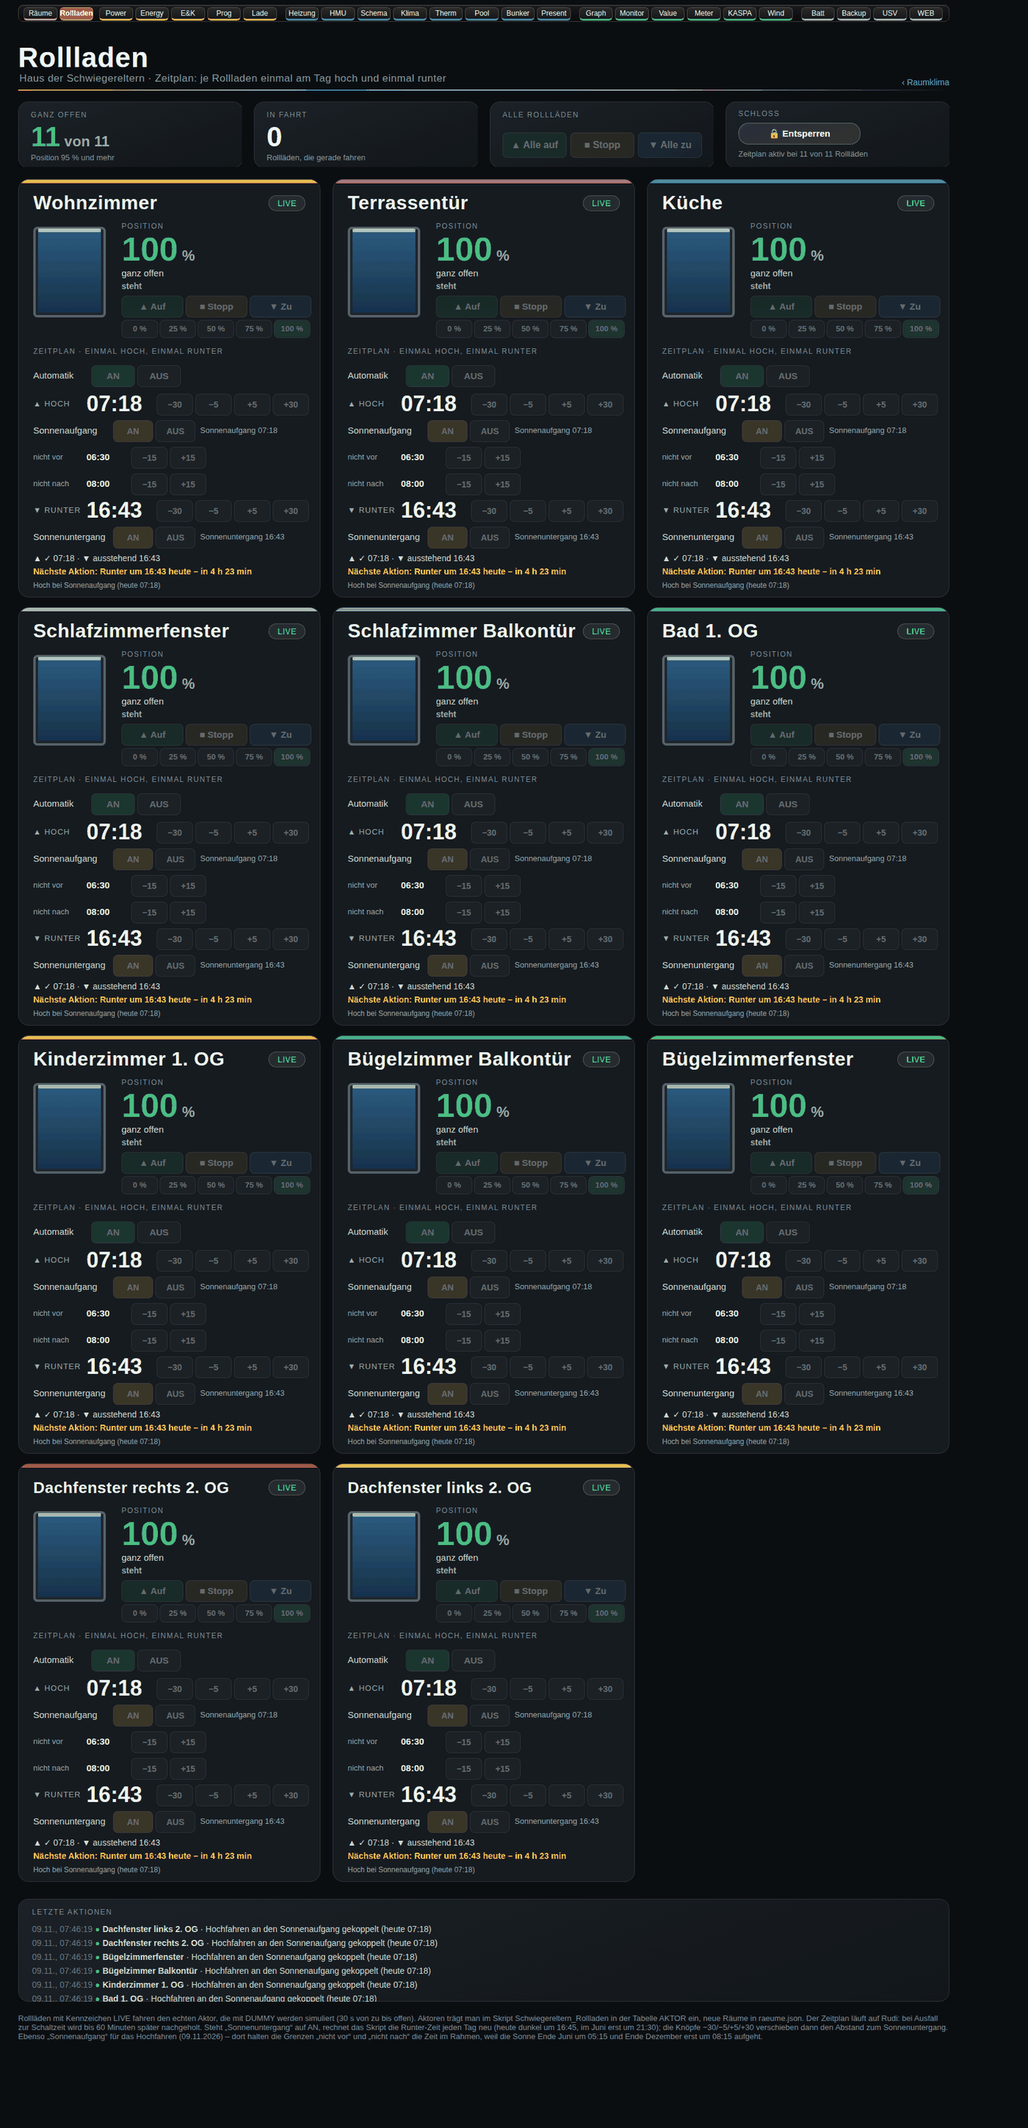
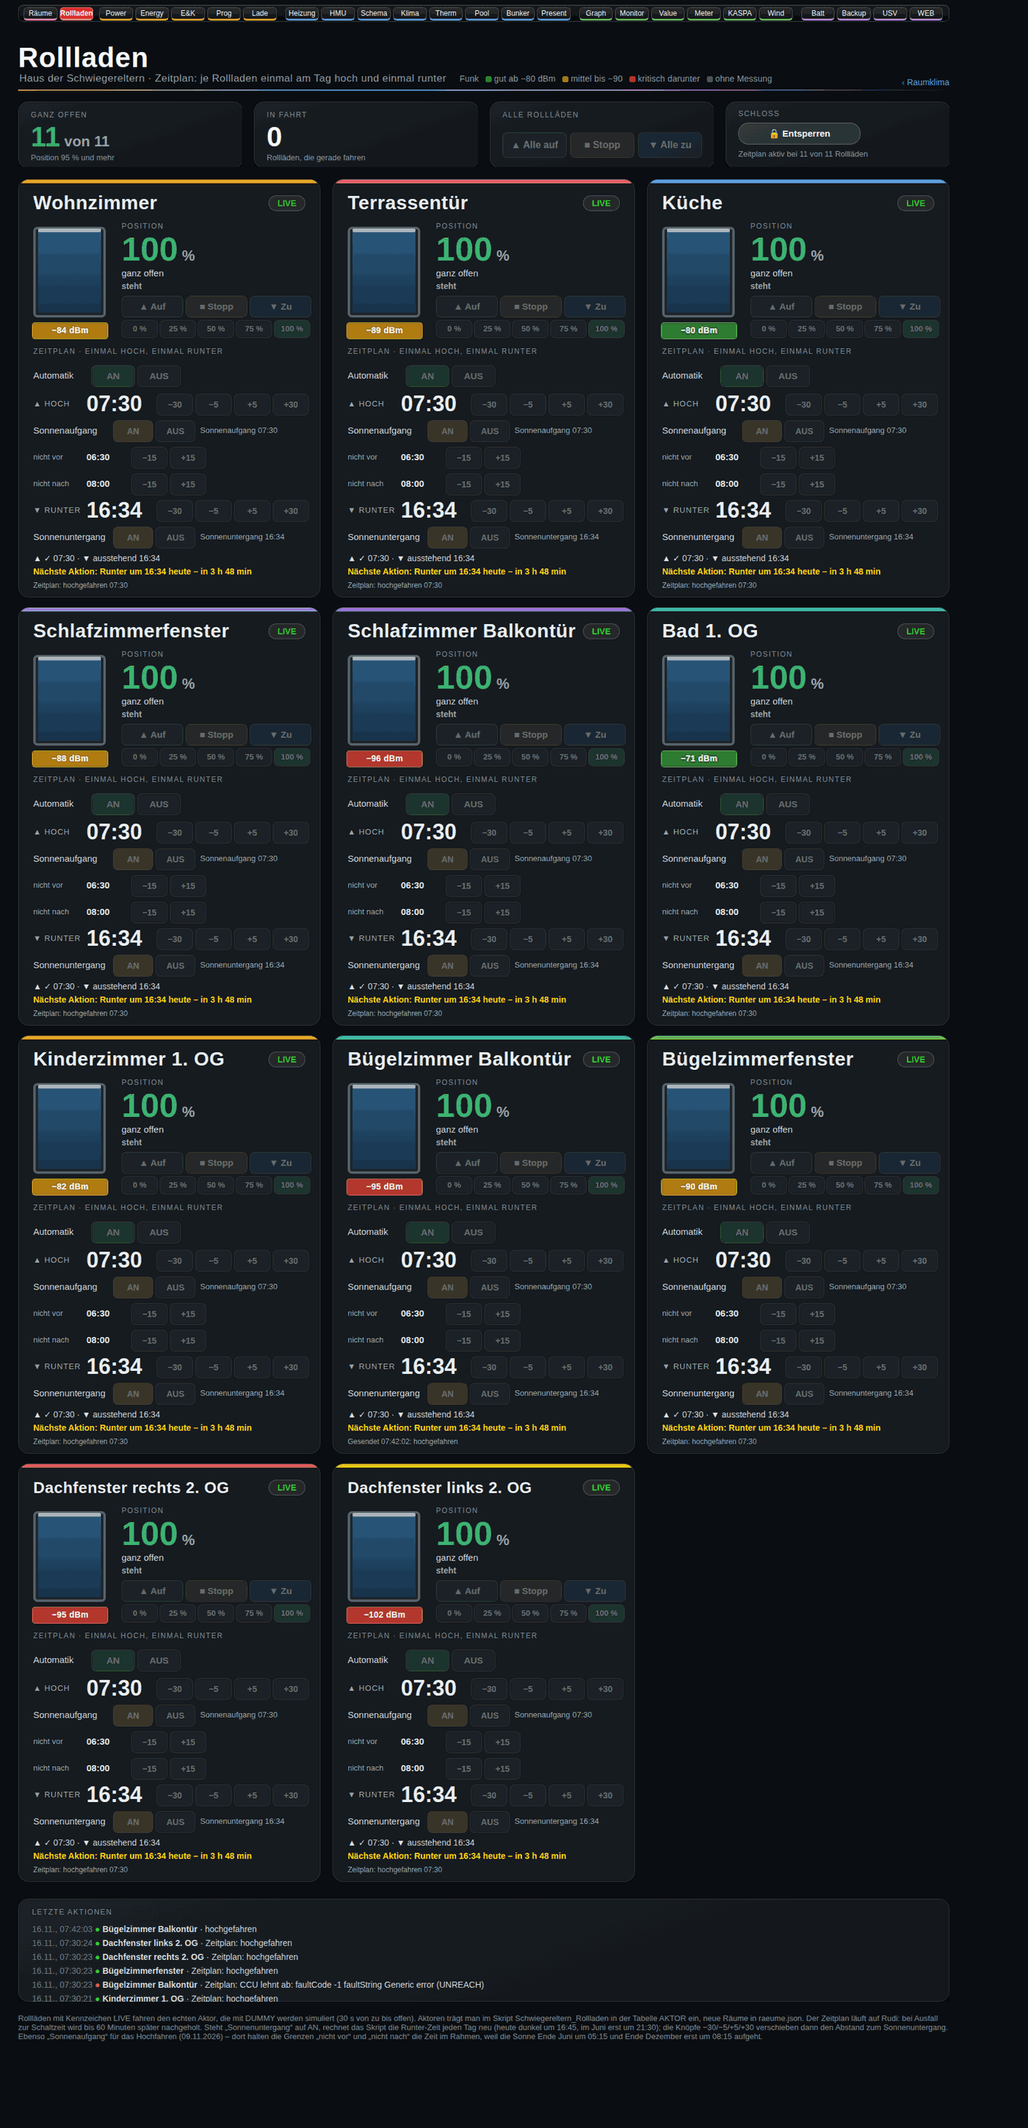
Funkguete je Rollladenaktor: man sieht den wackeligen, bevor er ausfaellt
Jede Karte zeigt unten links eine Ampel mit dem Funkpegel ihres Aktors:
gruen ab -80 dBm, gelb bis -90, darunter rot, grau ohne Messung. Der
Hinweistext nennt beide Richtungen getrennt und die Uhrzeit der letzten
gelungenen Messung, die Legende steht im Kopf der View.

Anlass war der Ausfall aus dem Commit 695f796: Ein Aktor lehnte eine
Fahrt wegen schwachem Funk ab. Dass gerade dieser Rollladen am Rand der
Reichweite sitzt, liess sich vorher nur von Hand nachmessen.

funkLesen() holt die Werte alle 15 Minuten per getParamset aus dem
WARTUNGSKANAL :0 -- der Fahrkanal :4 kennt kein RSSI_DEVICE, es braucht
also eine eigene Abfrage. Angezeigt wird der SCHLECHTERE von
RSSI_DEVICE und RSSI_PEER: eine Funkstrecke ist nur so gut wie ihre
schwaechere Richtung, und ein Geraet, das die Zentrale gut hoert, aber
selbst nicht durchkommt, faellt genauso aus.

Zwei Fallen stecken im Code:

- HomeMatic IP liefert 0 oder 128, wenn kein Pegel vorliegt. Ungeprueft
  uebernommen waere das die beste Note der Anlage; gueltig ist nur
  -120 bis -20 dBm, sonst gilt der Wert als fehlend.
- Der Messwert kommt als "-90" mit ASCII-Bindestrich, die von Hand
  gesetzte Legende trug ein typografisches Minus. Nebeneinander sah das
  aus wie zwei verschiedene Groessen; das Feld gleicht es beim Anzeigen
  an.

Antwortet ein Geraet nicht, bleibt der alte Wert stehen -- Funk_Stand
verraet das Alter. Erst wenn kein einziges Geraet antwortet, gibt es
[…]

diff --git a/generatoren/rollladen/vorlage.js b/generatoren/rollladen/vorlage.js
@@ -40,6 +40,12 @@ const AKTOR = {
 };
 const FAHRZEIT_S = 30, SCHRITT = 100 / FAHRZEIT_S, NACHHOL_MIN = 60, ENTSPERR_MS = 60000, MAXPROT = 40;
 const WIEDERHOL_MIN = 5;     // 16.11.2026: Minuten zwischen zwei Versuchen, wenn die CCU den Befehl ablehnt (UNREACH)
+// 16.11.2026: Funkguete je Aktor. RSSI steht im WARTUNGSkanal (:0), nicht im Fahrkanal (:4), darum eine eigene
+// Abfrage. Zwei Richtungen: RSSI_DEVICE = wie gut das Geraet die Zentrale hoert, RSSI_PEER = umgekehrt.
+// Angezeigt wird der SCHLECHTERE der beiden -- eine Funkstrecke ist nur so gut wie ihre schwaechere Richtung.
+const FUNK_TAKT_MS = 900000, FUNK_START_MS = 30000;     // alle 15 Minuten, erstmals 30 s nach dem Start
+const FUNK_GUT = -80, FUNK_MITTEL = -90;                // >= -80 gruen, -80 bis -90 gelb, darunter rot
+const FUNK_MIN = -120, FUNK_MAX = -20;                  // alles ausserhalb ist keine Messung (HmIP liefert dann 0)
 const letzteAenderung = {}, letzteAbfrage = {};
 let entsperrTimer = null, protokoll = [];
 const simuliert = r => !AKTOR[r.id];
@@ -80,7 +86,11 @@ async function init() {
             ['Letzte_Runter', 'string', 'text', 'Datum des letzten Runterfahrens (Zeitplan)', '', false],
             ['Naechste', 'string', 'text', 'Naechste geplante Aktion', 'Automatik aus', false],
             ['Heute', 'string', 'text', 'Was heute vom Zeitplan erledigt ist', '', false],
-            ['Meldung', 'string', 'text', 'Ergebnis des letzten Befehls', 'Bereit', false]
+            ['Meldung', 'string', 'text', 'Ergebnis des letzten Befehls', 'Bereit', false],
+            ['Funk_dBm', 'number', 'value', 'Funkguete: der schlechtere der beiden Werte in dBm (0 = keine Messung)', 0, false],
+            ['Funk_Geraet', 'number', 'value', 'Funk: wie gut das Geraet die Zentrale hoert (RSSI_DEVICE, dBm)', 0, false],
+            ['Funk_Zentrale', 'number', 'value', 'Funk: wie gut die Zentrale das Geraet hoert (RSSI_PEER, dBm)', 0, false],
+            ['Funk_Stand', 'string', 'text', 'Funk: Uhrzeit der letzten gelungenen Messung', '', false]
         ]) {
             const full = P + r.id + '.' + id;
             if (!existsState(full)) await createStateAsync(full, def, { name: r.name + ': ' + name, type, role, read: true, write: wr });
@@ -146,6 +156,36 @@ async function aktorLesen(r) {
     const txt = await rpc('getParamset', [S(AKTOR[r.id].adr), S('VALUES')]);
     const m = /<name>LEVEL<\/name>\s*<value>\s*<double>([^<]+)<\/double>/.exec(txt);
     return m ? Math.round(Number(m[1]) * 100) : null;
+}
+
+// ---------- Funkguete (16.11.2026) ----------
+function rssiWert(txt, name) {
+    const m = new RegExp('<name>' + name + '<\\/name>\\s*<value>\\s*<i4>(-?\\d+)<\\/i4>').exec(txt);
+    if (!m) return null;
+    const v = Number(m[1]);
+    return (v >= FUNK_MIN && v <= FUNK_MAX) ? v : null;      // 0 oder 128 heisst "unbekannt", nicht "sehr gut"
+}
+async function funkLesen() {
+    let gelesen = 0, stumm = 0;
+    for (const r of ROOMS) {
+        if (!AKTOR[r.id]) continue;                           // Dummy-Raum: kein Geraet, keine Funkguete
+        try {
+            const adr0 = AKTOR[r.id].adr.split(':')[0] + ':0';    // Wartungskanal
+            const txt = await rpc('getParamset', [S(adr0), S('VALUES')]);
+            const dev = rssiWert(txt, 'RSSI_DEVICE'), peer = rssiWert(txt, 'RSSI_PEER');
+            const beide = [dev, peer].filter(v => v !== null);
+            if (!beide.length) { stumm++; continue; }             // antwortet, meldet aber keinen Pegel
+            await setStateAsync(P + r.id + '.Funk_Geraet', dev === null ? 0 : dev, true);
+            await setStateAsync(P + r.id + '.Funk_Zentrale', peer === null ? 0 : peer, true);
+            await setStateAsync(P + r.id + '.Funk_dBm', Math.min(...beide), true);
+            await setStateAsync(P + r.id + '.Funk_Stand', new Date().toLocaleTimeString('de-DE', { hour: '2-digit', minute: '2-digit' }), true);
+            gelesen++;
+        } catch (e) {
+            stumm++;                                          // nicht erreichbar: alten Wert stehen lassen, Stand verraet das Alter
+        }
+        await new Promise(res => setTimeout(res, 150));        // die CCU nicht fluten
+    }
+    if (!gelesen) log('Rollladen: Funkguete nicht lesbar (' + stumm + ' Geraete stumm)', 'warn');
 }
 
 
@@ -458,6 +498,8 @@ async function takt() {      // jede Sekunde
     setInterval(takt, 1000);
     setInterval(pruefeZeitplan, 20000);
 setInterval(notlaufPflegen, NOTLAUF_TAKT_MS);
+setTimeout(funkLesen, FUNK_START_MS);
+setInterval(funkLesen, FUNK_TAKT_MS);
 notlaufPflegen();
     log('Schwiegereltern_Rollladen gestartet (' + ROOMS.length + ' Rollladen, ' + ROOMS.filter(simuliert).length + ' simuliert, Zeitplan: einmal hoch, einmal runter)', 'info');
 })();

diff --git a/skripte/rollladen_zeitplan.js b/skripte/rollladen_zeitplan.js
@@ -52,6 +52,12 @@ const AKTOR = {
 };
 const FAHRZEIT_S = 30, SCHRITT = 100 / FAHRZEIT_S, NACHHOL_MIN = 60, ENTSPERR_MS = 60000, MAXPROT = 40;
 const WIEDERHOL_MIN = 5;     // 16.11.2026: Minuten zwischen zwei Versuchen, wenn die CCU den Befehl ablehnt (UNREACH)
+// 16.11.2026: Funkguete je Aktor. RSSI steht im WARTUNGSkanal (:0), nicht im Fahrkanal (:4), darum eine eigene
+// Abfrage. Zwei Richtungen: RSSI_DEVICE = wie gut das Geraet die Zentrale hoert, RSSI_PEER = umgekehrt.
+// Angezeigt wird der SCHLECHTERE der beiden -- eine Funkstrecke ist nur so gut wie ihre schwaechere Richtung.
+const FUNK_TAKT_MS = 900000, FUNK_START_MS = 30000;     // alle 15 Minuten, erstmals 30 s nach dem Start
+const FUNK_GUT = -80, FUNK_MITTEL = -90;                // >= -80 gruen, -80 bis -90 gelb, darunter rot
+const FUNK_MIN = -120, FUNK_MAX = -20;                  // alles ausserhalb ist keine Messung (HmIP liefert dann 0)
 const letzteAenderung = {}, letzteAbfrage = {};
 let entsperrTimer = null, protokoll = [];
 const simuliert = r => !AKTOR[r.id];
@@ -92,7 +98,11 @@ async function init() {
             ['Letzte_Runter', 'string', 'text', 'Datum des letzten Runterfahrens (Zeitplan)', '', false],
             ['Naechste', 'string', 'text', 'Naechste geplante Aktion', 'Automatik aus', false],
             ['Heute', 'string', 'text', 'Was heute vom Zeitplan erledigt ist', '', false],
-            ['Meldung', 'string', 'text', 'Ergebnis des letzten Befehls', 'Bereit', false]
+            ['Meldung', 'string', 'text', 'Ergebnis des letzten Befehls', 'Bereit', false],
+            ['Funk_dBm', 'number', 'value', 'Funkguete: der schlechtere der beiden Werte in dBm (0 = keine Messung)', 0, false],
+            ['Funk_Geraet', 'number', 'value', 'Funk: wie gut das Geraet die Zentrale hoert (RSSI_DEVICE, dBm)', 0, false],
+            ['Funk_Zentrale', 'number', 'value', 'Funk: wie gut die Zentrale das Geraet hoert (RSSI_PEER, dBm)', 0, false],
+            ['Funk_Stand', 'string', 'text', 'Funk: Uhrzeit der letzten gelungenen Messung', '', false]
         ]) {
             const full = P + r.id + '.' + id;
             if (!existsState(full)) await createStateAsync(full, def, { name: r.name + ': ' + name, type, role, read: true, write: wr });
@@ -158,6 +168,36 @@ async function aktorLesen(r) {
     const txt = await rpc('getParamset', [S(AKTOR[r.id].adr), S('VALUES')]);
     const m = /<name>LEVEL<\/name>\s*<value>\s*<double>([^<]+)<\/double>/.exec(txt);
     return m ? Math.round(Number(m[1]) * 100) : null;
+}
+
+// ---------- Funkguete (16.11.2026) ----------
+function rssiWert(txt, name) {
+    const m = new RegExp('<name>' + name + '<\\/name>\\s*<value>\\s*<i4>(-?\\d+)<\\/i4>').exec(txt);
+    if (!m) return null;
+    const v = Number(m[1]);
+    return (v >= FUNK_MIN && v <= FUNK_MAX) ? v : null;      // 0 oder 128 heisst "unbekannt", nicht "sehr gut"
+}
+async function funkLesen() {
+    let gelesen = 0, stumm = 0;
+    for (const r of ROOMS) {
+        if (!AKTOR[r.id]) continue;                           // Dummy-Raum: kein Geraet, keine Funkguete
+        try {
+            const adr0 = AKTOR[r.id].adr.split(':')[0] + ':0';    // Wartungskanal
+            const txt = await rpc('getParamset', [S(adr0), S('VALUES')]);
+            const dev = rssiWert(txt, 'RSSI_DEVICE'), peer = rssiWert(txt, 'RSSI_PEER');
+            const beide = [dev, peer].filter(v => v !== null);
+            if (!beide.length) { stumm++; continue; }             // antwortet, meldet aber keinen Pegel
+            await setStateAsync(P + r.id + '.Funk_Geraet', dev === null ? 0 : dev, true);
+            await setStateAsync(P + r.id + '.Funk_Zentrale', peer === null ? 0 : peer, true);
+            await setStateAsync(P + r.id + '.Funk_dBm', Math.min(...beide), true);
+            await setStateAsync(P + r.id + '.Funk_Stand', new Date().toLocaleTimeString('de-DE', { hour: '2-digit', minute: '2-digit' }), true);
+            gelesen++;
+        } catch (e) {
+            stumm++;                                          // nicht erreichbar: alten Wert stehen lassen, Stand verraet das Alter
+        }
+        await new Promise(res => setTimeout(res, 150));        // die CCU nicht fluten
+    }
+    if (!gelesen) log('Rollladen: Funkguete nicht lesbar (' + stumm + ' Geraete stumm)', 'warn');
 }
 
 
@@ -470,6 +510,8 @@ async function takt() {      // jede Sekunde
     setInterval(takt, 1000);
     setInterval(pruefeZeitplan, 20000);
 setInterval(notlaufPflegen, NOTLAUF_TAKT_MS);
+setTimeout(funkLesen, FUNK_START_MS);
+setInterval(funkLesen, FUNK_TAKT_MS);
 notlaufPflegen();
     log('Schwiegereltern_Rollladen gestartet (' + ROOMS.length + ' Rollladen, ' + ROOMS.filter(simuliert).length + ' simuliert, Zeitplan: einmal hoch, einmal runter)', 'info');
 })();

diff --git a/generatoren/rollladen/build_view.py b/generatoren/rollladen/build_view.py
@@ -52,6 +52,19 @@ def teil_bedienung(r):
     for i, pz in enumerate((0, 25, 50, 75, 100)):
         bg = B(V("z", zl), "z==%d&&'rgba(76,195,138,0.38)'||'rgba(255,255,255,0.08)'" % pz)
         o.append(btn(170 + i * 63, 232, 58, "%d %%" % pz, bf, "z%d" % pz, bg, 13, 28))
+    # Funkguete unten links, unter der Rollladen-Zeichnung (16.11.2026). Der Platz dort ist frei:
+    # die SVG endet bei y=232, die Knopfreihe beginnt erst bei x=170. Farbe nach Ampel, Werte aus
+    # dem Skript Schwiegereltern_Rollladen (alle 15 Minuten per XML-RPC aus dem Wartungskanal).
+    fd, fg, fz, fst = pid + "Funk_dBm", pid + "Funk_Geraet", pid + "Funk_Zentrale", pid + "Funk_Stand"
+    fbg = B(V("d", fd), "d?(d>=-80?'#2e7d32':(d>=-90?'#b07d12':'#b3382e')):'#4a545c'")
+    ftx = B(V("d", fd), "d?String(d).replace('-','\u2212')+' dBm':'kein Funkwert'")
+    tip = ("Funkg\u00fcte " + B(V("d", fd), "d&&d+' dBm'||'ohne Messung'")
+           + " \u2013 Ger\u00e4t h\u00f6rt Zentrale " + B(V("g", fg), "g&&g+' dBm'||'?'")
+           + ", Zentrale h\u00f6rt Ger\u00e4t " + B(V("z", fz), "z&&z+' dBm'||'?'")
+           + " \u2013 gemessen {" + fst + "}")
+    o.append('<div title="%s" style="position:absolute;left:22px;top:236px;width:124px;height:26px;border-radius:5px;'
+             'background:%s;border:1px solid rgba(255,255,255,0.18);font-size:14px;font-weight:700;line-height:24px;'
+             'text-align:center;color:#ffffff;letter-spacing:0.3px;">%s</div>' % (tip, fbg, ftx))
     return root("".join(o), 272, "18px 18px 0 0", "border:1px solid #2b333b;border-bottom:none;")
 
 def teil_zeitplan(r):
@@ -122,7 +135,11 @@ def header():
             '<div style="position:absolute;left:0;top:10px;font-size:46px;font-weight:700;letter-spacing:1px;">Rollladen</div>'
             '<div style="position:absolute;left:2px;top:62px;font-size:17px;color:#8a96a0;letter-spacing:0.5px;">Haus der Schwiegereltern · Zeitplan: je Rollladen einmal am Tag hoch und einmal runter</div>'
             '<a href="/vis-2/index.html?Schwiegereltern#Raeume" style="position:absolute;right:0;top:70px;font-size:14px;color:#4c9be8;text-decoration:none;">‹ Raumklima</a>'
-            '<div style="position:absolute;left:0;top:90px;width:1540px;height:2px;background:linear-gradient(90deg,#f2a93b,#4c9be8,#b07be0,rgba(176,123,224,0));"></div></div>' % (FONT,))
+            '<div style="position:absolute;left:0;top:90px;width:1540px;height:2px;background:linear-gradient(90deg,#f2a93b,#4c9be8,#b07be0,rgba(176,123,224,0));"></div>'
+            # Legende der Funkampel (16.11.2026). Sie steht im freien Streifen rechts der Unterzeile
+            # (links davon endet der Text bei ~720 px, rechts beginnt der Raumklima-Verweis erst oben).
+            '<div style="position:absolute;left:730px;top:64px;font-size:14px;color:#8a96a0;letter-spacing:0.2px;white-space:nowrap;">Funk<span style="display:inline-block;width:10px;height:10px;border-radius:3px;background:#2e7d32;margin:0 4px 0 11px;vertical-align:-1px;"></span>gut ab −80 dBm<span style="display:inline-block;width:10px;height:10px;border-radius:3px;background:#b07d12;margin:0 4px 0 11px;vertical-align:-1px;"></span>mittel bis −90<span style="display:inline-block;width:10px;height:10px;border-radius:3px;background:#b3382e;margin:0 4px 0 11px;vertical-align:-1px;"></span>kritisch darunter<span style="display:inline-block;width:10px;height:10px;border-radius:3px;background:#4a545c;margin:0 4px 0 11px;vertical-align:-1px;"></span>ohne Messung</div>'
+            '</div>' % (FONT,))
 
 def tile(label, value, caption, valcol="#ffffff", extra=""):
     return ('<div style="position:relative;width:370px;height:108px;font-family:%s;color:#e9eef2;background:linear-gradient(160deg,#1b2127,#12161a);border:1px solid #2b333b;border-radius:16px;box-shadow:0 6px 18px rgba(0,0,0,0.4);">'

diff --git a/docs/PROGRAMMLOGIK.md b/docs/PROGRAMMLOGIK.md
@@ -259,6 +259,33 @@ Laien: [`notlauf/NOTFALL-VERBINDUNG.md`](../notlauf/NOTFALL-VERBINDUNG.md).
 
 ---
 
+### 4.8 Funkgüte je Aktor (`funkLesen`, alle 15 Minuten)
+
+Jede Rollladenkarte zeigt unten links, wie gut der Aktor funkt. Der Wert entsteht in `funkLesen()`:
+
+| Was | Wert |
+|---|---|
+| Takt | alle **15 Minuten** (`FUNK_TAKT_MS`), erstmals 30 s nach dem Start (`FUNK_START_MS`) |
+| Quelle | `getParamset(<Adresse>:0, VALUES)` — die Felder `RSSI_DEVICE` und `RSSI_PEER` |
+| Pause | 150 ms zwischen zwei Geräten, damit die Zentrale nicht geflutet wird |
+| Datenpunkte je Raum | `Funk_dBm`, `Funk_Geraet`, `Funk_Zentrale`, `Funk_Stand` |
+| Ampel | grün ab `FUNK_GUT` (−80), gelb bis `FUNK_MITTEL` (−90), darunter rot, ohne Messung grau |
+
+* **`RSSI_DEVICE` steht im Wartungskanal `:0`, nicht im Fahrkanal `:4`.** Der Zeitplan spricht mit Kanal 4; die
+  Funkgüte braucht deshalb eine eigene Abfrage auf Kanal 0 derselben Adresse.
+* **Angezeigt wird der schlechtere der beiden Werte.** `RSSI_DEVICE` ist, wie gut das Gerät die Zentrale hört,
+  `RSSI_PEER` die Gegenrichtung. Eine Funkstrecke ist nur so gut wie ihre schwächere Richtung — ein Aktor, der die
+  Zentrale gut hört, aber selbst nicht durchkommt, fällt genauso aus (siehe 4.4, Nachholen beim Fehlschlag).
+* **`0` heißt „unbekannt“, nicht „sehr gut“.** HomeMatic IP liefert für einen fehlenden Pegel `0` oder `128`. Ohne
+  das Gültigkeitsfenster `FUNK_MIN`…`FUNK_MAX` (−120 bis −20 dBm) würde daraus die beste Note der Anlage.
+* **Antwortet ein Gerät nicht, bleibt der alte Wert stehen**; `Funk_Stand` (Uhrzeit) verrät das Alter. Erst wenn
+  **kein einziges** Gerät antwortet, schreibt das Skript eine Warnung ins Log.
+* **Darstellung:** Die Zahl kommt als `-90` mit ASCII-Bindestrich, die Legende im Kopf der View ist gesetzt mit
+  typografischem `−`. Das Feld gleicht das beim Anzeigen an (`String(d).replace('-','−')`), sonst stehen in
+  derselben Zeile zwei verschiedene Minuszeichen.
+
+---
+
 ## 5 Thermostat-Wächter (`thermostat_waechter.js`)
 
 **Aufgabe:** Fehler an den Heizkörper-Thermostaten **melden**, bevor man sie friert: Ventil nicht angepasst, schwergängig, Batterie schwach, Funk weg.
@@ -394,7 +421,7 @@ Die CCU selbst wird nur an den dokumentierten Stellen geschrieben: `SET_POINT_TE
 | | `…Geraete.<adr>.*` | `UNREACH, LOW_BAT, OPERATING_VOLTAGE, RSSI_DEVICE, Batterie_Status, STATE` |
 | | `…Allgemein.*` | `Entsperrt, Bedienung_erlaubt, Verbindung, Fehler, Aktualisiert, Fenster_offen, Batterie_gelb/rot, Protokoll_*` |
 | Karten | `0_userdata.0.<Heizung>_Karten.kNN` | fertiges HTML je Widget |
-| Rollladen | `0_userdata.0.Rollladen_<Projekt>.<Raum>.*` | `Position, Ziel, Fahrt, Auto, Hoch_Min, Runter_Min, Befehl, Naechste, Heute` |
+| Rollladen | `0_userdata.0.Rollladen_<Projekt>.<Raum>.*` | `Position, Ziel, Fahrt, Auto, Hoch_Min, Runter_Min, Befehl, Naechste, Heute, Funk_dBm, Funk_Geraet, Funk_Zentrale, Funk_Stand` |
 | Batterie | `0_userdata.0.Batterien.<Zentrale>.*` | `Tabelle_HTML, Gesamt, Gruen, Gelb, Rot` |
 | Wächter | `0_userdata.0.Heizung.*` | `ThermostatFehler(Text), AnzahlFehler, Seite, Banner, TelegramTest, <key>.*` |
 

diff --git a/README.md b/README.md
@@ -55,6 +55,10 @@ Heizkörper-Thermostate, Fensterkontakte, Rollladenaktoren (HmIP)
   `followthesun`, Versatz je Raum einstellbar). Beim **Hochfahren** begrenzen zwei Schranken das Ergebnis (voreingestellt
   06:30–08:00), sonst risse der Rollladen Ende Juni um 05:15 auf. Berechnet wird nur `<Richtung>_Min` — Zeitplan, Anzeige
   und Notlauf-Plan lesen unverändert diesen einen Wert.
+* **Funkgüte je Aktor:** Jede Karte zeigt als Ampel, wie gut ihr Rollladen funkt (alle 15 Minuten aus dem
+  **Wartungskanal `:0`**). Angezeigt wird der **schlechtere** der beiden Werte `RSSI_DEVICE` und `RSSI_PEER` — eine
+  Funkstrecke ist nur so gut wie ihre schwächere Richtung. So sieht man einen wackeligen Aktor, **bevor** eine Fahrt
+  ausfällt.
 
 > **Hinweis zu `views/`:** Die JSON-Dateien sind Exporte der laufenden Views (mit Karten-Bindungen). `views/heizung_raeume.json` enthält zusätzlich einen
 > Shelly-Sensorblock, dessen Skript nicht Teil des Pakets ist. Für den eigenen Einbau besser die **Generator-Ausgabe** (`generatoren/ausgabe/vis-views.json`) verwenden.
@@ -98,11 +102,17 @@ Heizkörper-Thermostate, Fensterkontakte, Rollladenaktoren (HmIP)
 * **Neue Bedienelemente an den vorhandenen messen, nicht an der freien Fläche** — in beiden Richtungen. Zwei neu
   eingefügte Knöpfe waren 42 px breit mit 2 px Abstand, während alle anderen der View 58–106 px mit 4–6 px hatten; nach der
   Korrektur lagen die Zeilen senkrecht 2 px auseinander. Faustregel: Zeilenabstand = Knopfhöhe + 10 px.
+* **Funkpegel steht im Wartungskanal `:0`, und `0` heißt „unbekannt“.** Der Fahrkanal (`:4` beim BROLL‑2) kennt kein
+  `RSSI_DEVICE`; es braucht eine eigene Abfrage auf Kanal 0 derselben Adresse. Liefert HomeMatic IP keinen Pegel, kommt
+  `0` oder `128` — ungeprüft übernommen wird daraus die **beste** Note der Anlage. Deshalb gilt nur −120 bis −20 dBm.
+* **Zahl neben selbst geschriebenem Text: das Vorzeichen angleichen.** Ein Messwert kommt als `-90` mit
+  ASCII-Bindestrich, eine von Hand gesetzte Legende trägt das typografische `−`. Nebeneinander sieht das aus wie zwei
+  verschiedene Größen. Entweder beim Anzeigen umwandeln oder überall denselben Strich verwenden.
 
 ## Zeitsteuerung (Cron)
 
 Es wird **kein Cron-Eintrag auf dem Betriebssystem** gebraucht. Alle Takte laufen im ioBroker-Javascript-Adapter (`schedule(...)`, `setInterval`):
-Heizung jede Minute (Werte), alle 30 s (Geräte), alle 10 Minuten (Wochenprofile); Rollladen jede Sekunde (Position) und alle 20 s (Zeitplan);
+Heizung jede Minute (Werte), alle 30 s (Geräte), alle 10 Minuten (Wochenprofile); Rollladen jede Sekunde (Position), alle 20 s (Zeitplan) und alle 15 Minuten (Funkgüte);
 Batterien alle 5 Minuten; Thermostat-Wächter alle 5 Minuten plus täglich 09:00 (Erinnerung). Details in `docs/PROGRAMMLOGIK.md`, Abschnitt 7.
 Nur die **Zeitzone** des Rechners muss stimmen.
 
